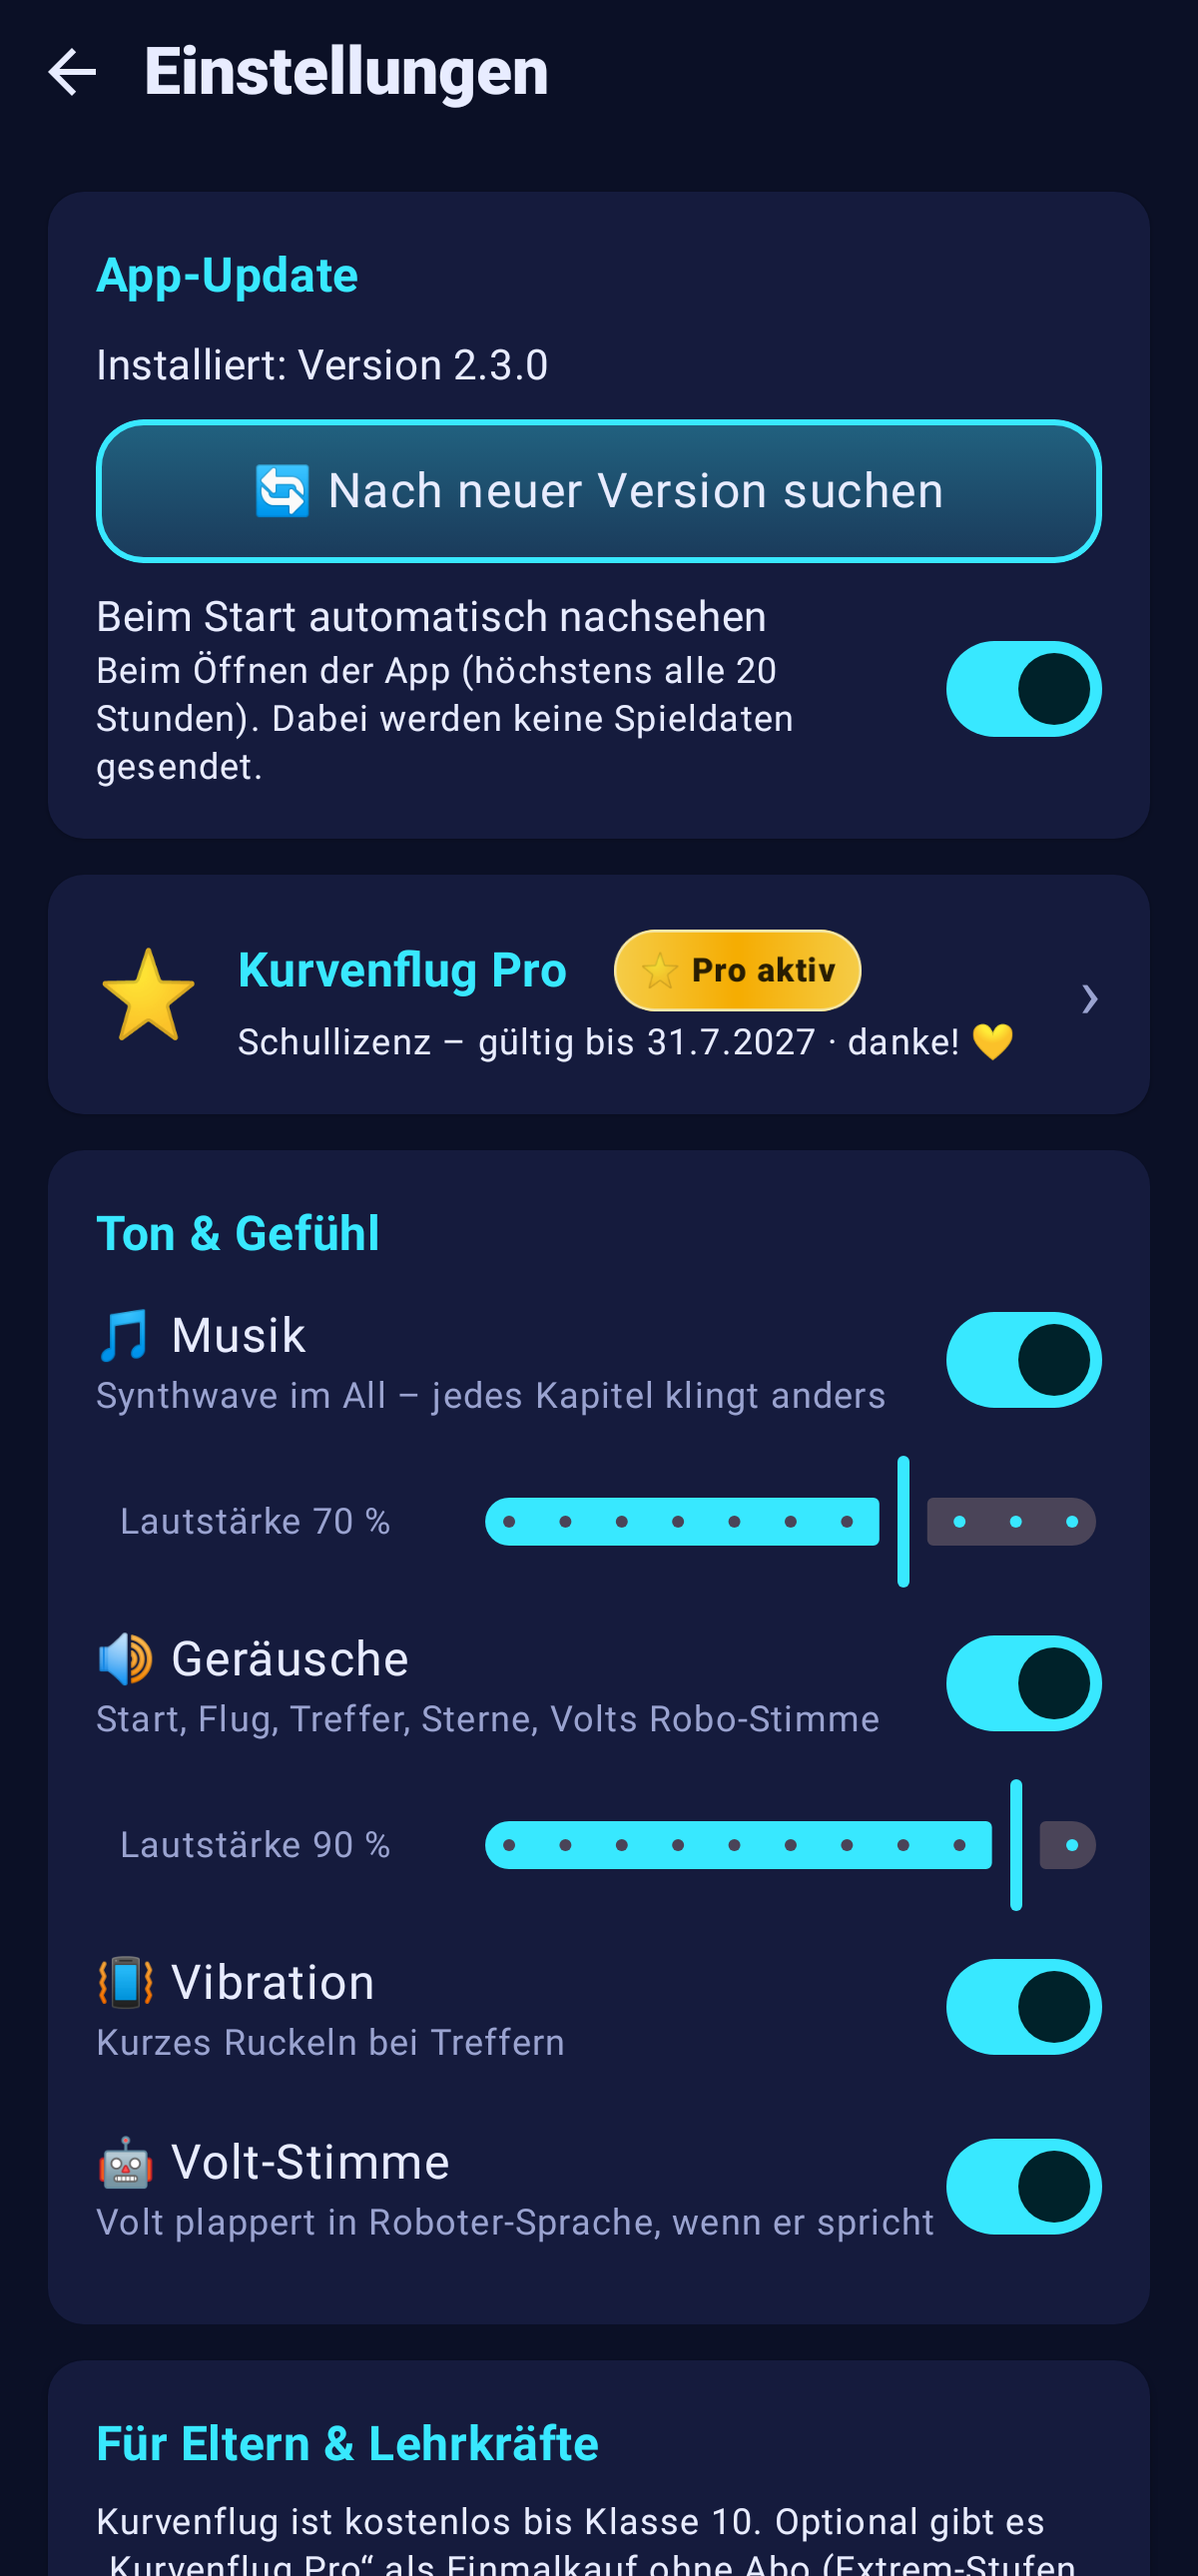
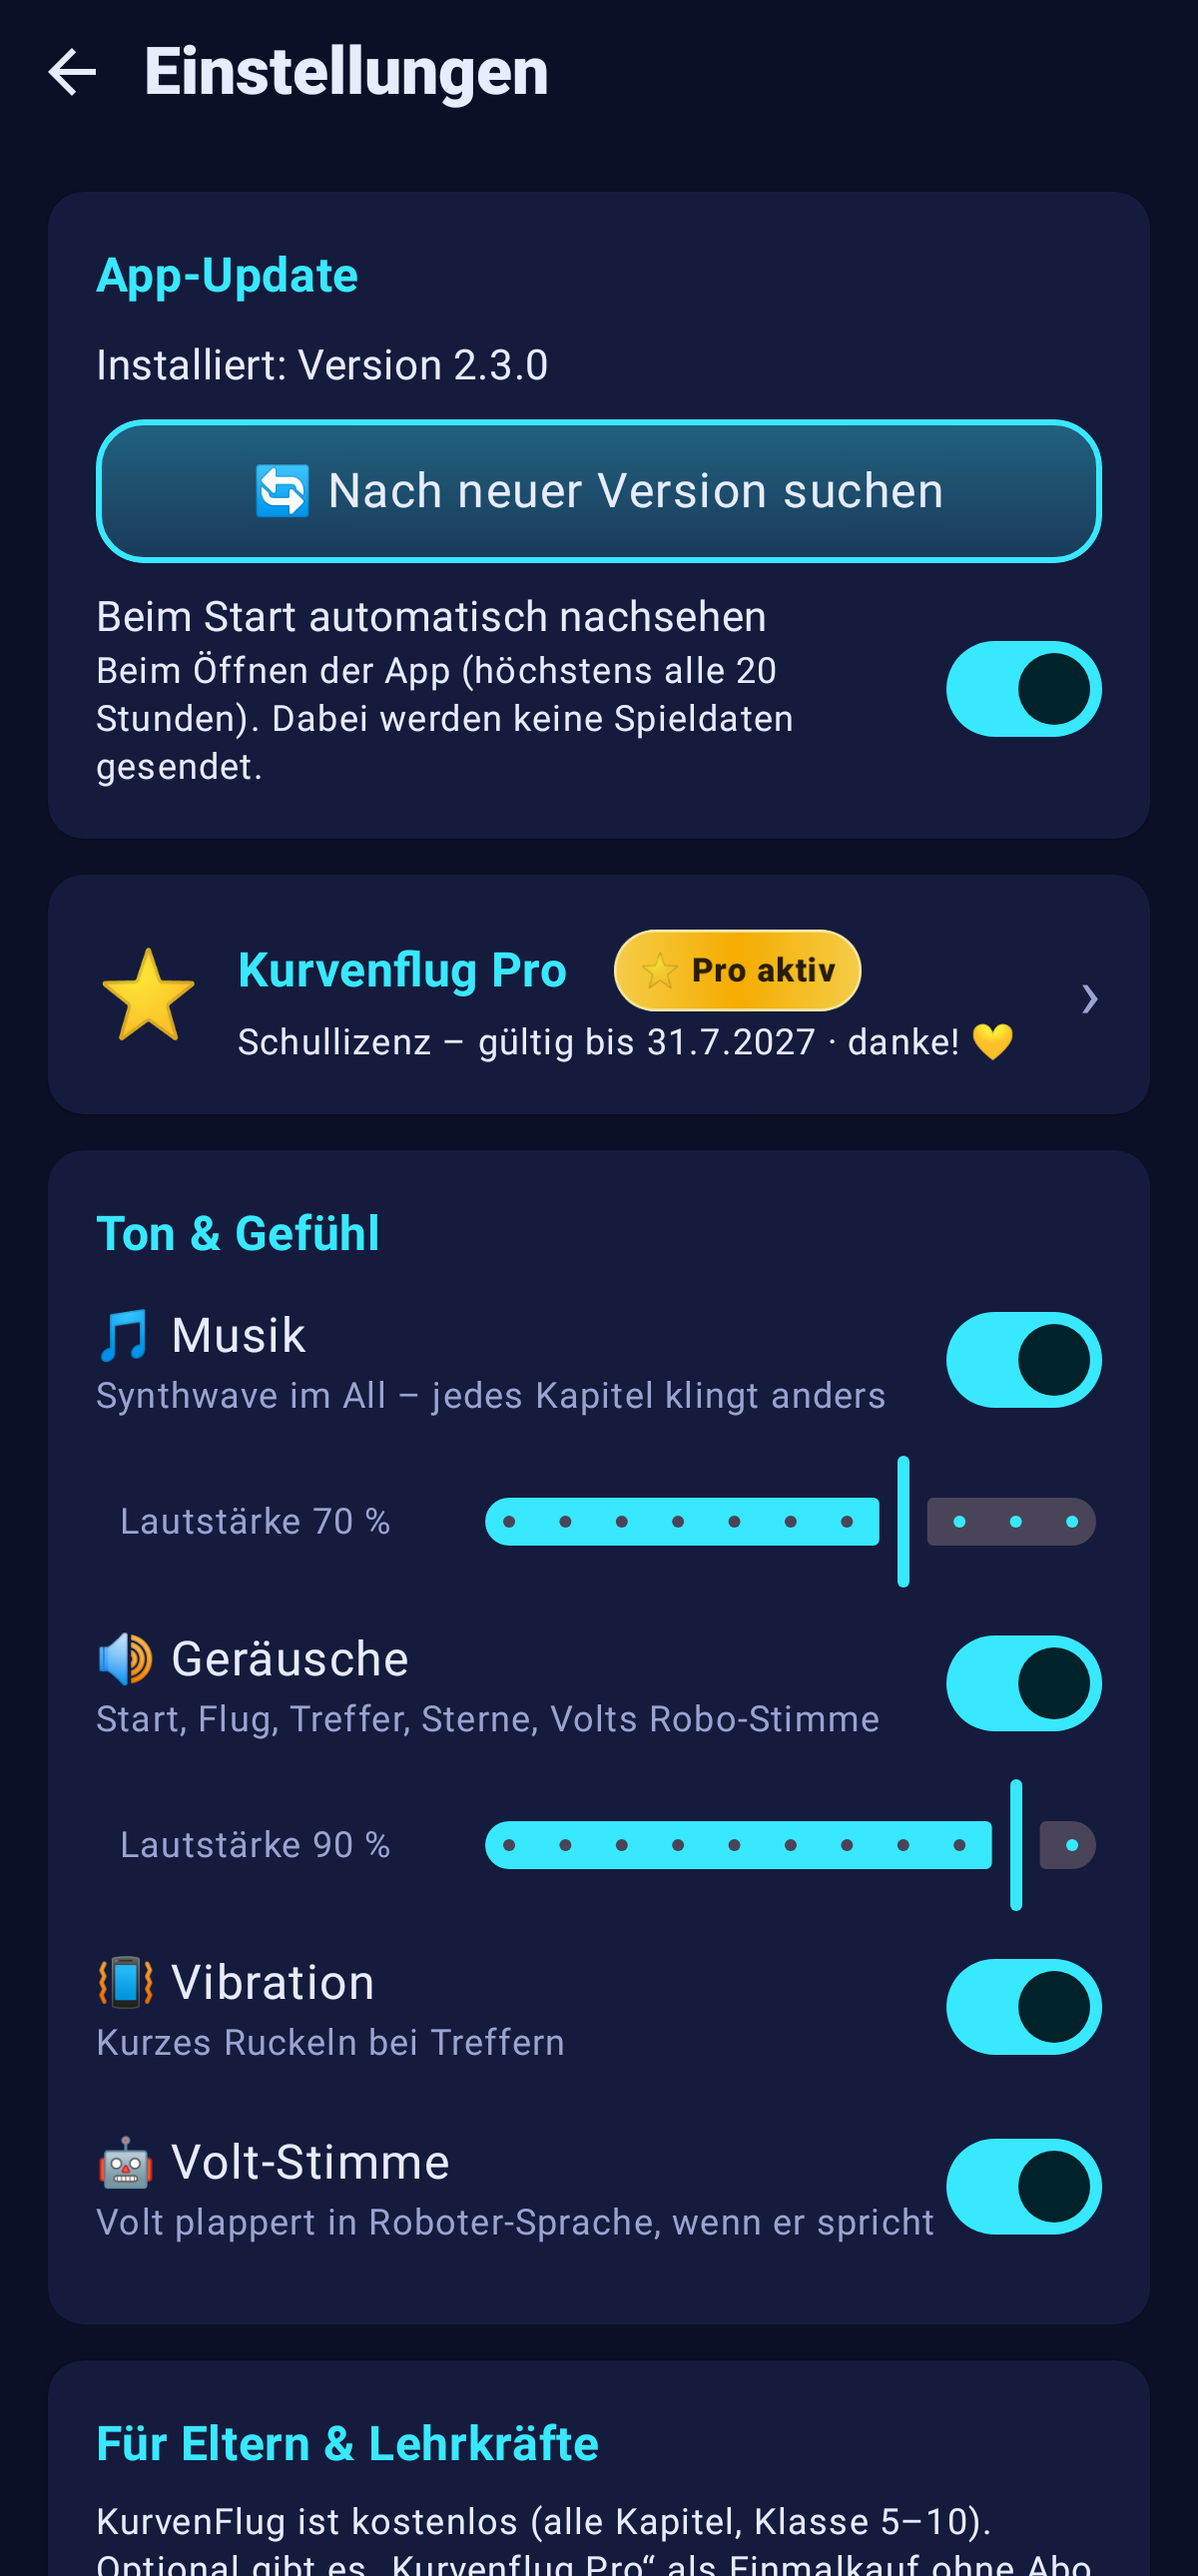
KurvenFlug: Pro-Schloss ohne Kaufaufforderung an Kinder (UWG Anh. Nr. 28)
Gesperrtes Level zeigt nur den sachlichen Hinweis (kein Preis, kein Kaufknopf), Weg nur über das Eltern-Tor;
Pro-Seite aus den Einstellungen nur nach Eltern-Frage; Texte bei Spielern/Kapitel angepasst; Test gegen Kaufaufforderungen.

Claude-Session: https://claude.ai/code/session_015vg1TniCB6sLGd2dNSJdge

Changed region(s): [[0.0617, 0.9612, 0.925, 1.0]]

diff --git a/kurvenflug/shared/src/commonMain/kotlin/de/kurvenflug/app/Root.kt b/kurvenflug/shared/src/commonMain/kotlin/de/kurvenflug/app/Root.kt
@@ -226,6 +226,9 @@ private fun Nav(vm: AppState, platform: Platform, incomingDuel: MutableState<Str
     // Elternbereich nur hinter dem Eltern-Tor (dort stehen Angebote für Eltern – nie für Kinder sichtbar)
     var parentGate by remember { mutableStateOf(false) }
     if (parentGate) de.kurvenflug.app.ui.pro.ParentGate(onDismiss = { parentGate = false }, why = "Der Elternbereich ist für Erwachsene.") { parentGate = false; platform.count("elternbereich"); nav.goOnce(Routes.PARENT) }
+    // Pro-Seite (mit Preis) nur hinter dem Eltern-Tor – nie direkt aus einer Kinderansicht
+    var proGate by remember { mutableStateOf(false) }
+    if (proGate) de.kurvenflug.app.ui.pro.ParentGate(onDismiss = { proGate = false }, why = "Die Pro-Seite ist für Erwachsene.") { proGate = false; nav.goOnce(Routes.PRO) }
     // Monatssummen dauerhaft fortschreiben (Eltern-Bericht „verlauf“; die einzelnen Durchgänge hält die App nur 60 Tage)
     val allPlays by remember { vm.weekPlays(0L) }.collectAsStateWithLifecycle(emptyList())
     var months by remember { mutableStateOf(de.kurvenflug.core.model.MonthSums.parse(vm.settings.monthSums)) }
@@ -352,7 +355,7 @@ private fun Nav(vm: AppState, platform: Platform, incomingDuel: MutableState<Str
             // Pro-Inhalt ohne Pro (nur wenn ein Kaufweg angeboten wird): stattdessen die Pro-Seite
             val ps = LocalPro.current
             if (!de.kurvenflug.core.model.Pro.open(id, ps.pro, ps.locking, allStars)) {
-                de.kurvenflug.app.ui.pro.ProScreen(ps, platform.proShop, onCode = vm.settings::setProCode, onBack = { nav.popSafe() }, locked = true)
+                de.kurvenflug.app.ui.pro.ProLockedNotice(onBack = { nav.popSafe() }, onParents = { parentGate = true })
                 return@composable
             }
             val chapter = (if (de.kurvenflug.core.model.Andromeda.isAndromeda(id)) de.kurvenflug.core.model.Andromeda.chapter(id.removePrefix(de.kurvenflug.core.model.Andromeda.PREFIX).substringBefore('-').toInt()) else null)
@@ -556,7 +559,7 @@ private fun Nav(vm: AppState, platform: Platform, incomingDuel: MutableState<Str
                 update = upd?.let { UpdateState.Available(it) } ?: UpdateState.Idle,
                 onBack = { nav.popSafe() },
                 onReset = vm::resetAll,
-                onPro = if (platform.proShop != null) ({ nav.goOnce(Routes.PRO) }) else null,
+                onPro = if (platform.proShop != null) ({ proGate = true }) else null,
                 voltVoice = vm.settings.voltVoice.collectAsStateWithLifecycle().value, onVoltVoice = vm.settings::setVoltVoice,
                 readAloud = vm.settings.readAloud.collectAsStateWithLifecycle().value, onReadAloud = vm.settings::setReadAloud,
                 readSpeed = vm.settings.readSpeed.collectAsStateWithLifecycle().value, onReadSpeed = vm.settings::setReadSpeed,

diff --git a/kurvenflug/shared/src/commonMain/kotlin/de/kurvenflug/app/ui/pro/ProScreen.kt b/kurvenflug/shared/src/commonMain/kotlin/de/kurvenflug/app/ui/pro/ProScreen.kt
@@ -67,7 +67,7 @@ fun ProScreen(state: ProState, shop: ProShop?, onCode: (String) -> Unit, onBack:
             }
             val speech = when {
                 state.pro -> "Pro ist freigeschaltet! Jetzt geht's bis ganz nach oben! 🚀"
-                locked -> "Das gehört zu Kurvenflug Pro. Frag deine Eltern!"
+                locked -> PRO_LOCKED_TEXT
                 else -> "Mit Pro gibt's Profi-Stufen, Andromeda und noch mehr!"
             }
             Row(verticalAlignment = Alignment.CenterVertically) {
@@ -141,6 +141,27 @@ fun ProScreen(state: ProState, shop: ProShop?, onCode: (String) -> Unit, onBack:
         }
     }
     if (gate) ParentGate(onDismiss = { gate = false }) { gate = false; counter.countAt("pro_kasse", if (locked) "gesperrt" else "einstellungen"); shop?.buy() }
+}
+
+/**
+ * Kinder-Hinweis an jedem Pro-Schloss (UWG Anhang Nr. 28, Korrektur AppZentrale 19.11.): sachlich, kein Preis, kein Kaufknopf,
+ * keine Aufforderung an das Kind. Der einzige Weg führt zum Eltern-Tor, nie direkt zur Kasse.
+ */
+const val PRO_LOCKED_TEXT = "Das gehört zu KurvenFlug Pro. Deine Eltern können im Elternbereich nachsehen."
+
+@Composable
+fun ProLockedNotice(onBack: () -> Unit, onParents: () -> Unit) {
+    Column(Modifier.fillMaxSize().padding(24.dp), verticalArrangement = Arrangement.spacedBy(16.dp, Alignment.CenterVertically),
+        horizontalAlignment = Alignment.CenterHorizontally) {
+        Text("⭐", fontSize = 56.sp)
+        Row(verticalAlignment = Alignment.CenterVertically, modifier = Modifier.widthIn(max = 520.dp)) {
+            Volt(VoltMood.HAPPY, size = 64.dp)
+            Spacer(Modifier.width(8.dp))
+            Text(PRO_LOCKED_TEXT, color = Q.Text, modifier = Modifier.clip(RoundedCornerShape(16.dp)).background(Q.Panel).padding(12.dp))
+        }
+        NeonButton(onClick = onBack, color = Q.Cyan, modifier = Modifier.widthIn(min = 220.dp)) { Text("← Zurück", fontWeight = FontWeight.Bold) }
+        TextButton(onClick = onParents) { Text("👪 Elternbereich (für Erwachsene)", color = Q.Muted) }
+    }
 }
 
 /** Frage für Erwachsene vor jedem Kauf: Geburtsjahr eingeben, mindestens 18 Jahre. */

diff --git a/kurvenflug/core/model/src/jvmTest/kotlin/de/kurvenflug/core/model/KidsNoPurchaseAppealTest.kt b/kurvenflug/core/model/src/jvmTest/kotlin/de/kurvenflug/core/model/KidsNoPurchaseAppealTest.kt
@@ -1,0 +1,27 @@
+package de.kurvenflug.core.model
+
+import java.io.File
+import kotlin.test.Test
+import kotlin.test.assertTrue
+
+/**
+ * Keine Kaufaufforderung an Kinder (UWG Anhang Nr. 28, Korrektur AppZentrale 19.11.):
+ * In der Oberfläche darf nirgends „Frag deine Eltern“, „Kauf dir …“ o. Ä. stehen; Pro-Schlösser zeigen nur den sachlichen Hinweis.
+ */
+class KidsNoPurchaseAppealTest {
+    private val sources = File("../../shared/src/commonMain/kotlin").walkTopDown().filter { it.extension == "kt" }.toList()
+
+    @Test fun noPurchaseAppealToChildren() {
+        val bad = Regex("(?i)frag\\s+deine\\s+eltern|kauf\\s+dir|jetzt\\s+kaufen|bitte\\s+deine\\s+eltern|sag\\s+deinen\\s+eltern")
+        val hits = sources.flatMap { f -> f.readLines().mapIndexedNotNull { i, l -> if (bad.containsMatchIn(l)) "${f.name}:${i + 1}" else null } }
+        assertTrue(hits.isEmpty(), "Kaufaufforderung an Kinder: $hits")
+    }
+
+    @Test fun lockedLevelShowsNoticeNotShop() {
+        val root = sources.first { it.name == "Root.kt" }.readText()
+        assertTrue("ProLockedNotice(" in root)
+        assertTrue("locked = true" !in root, "gesperrtes Level darf nicht die Pro-Seite mit Preis zeigen")
+        val pro = sources.first { it.name == "ProScreen.kt" }.readText()
+        assertTrue("\"Das gehört zu KurvenFlug Pro. Deine Eltern können im Elternbereich nachsehen.\"" in pro)
+    }
+}

diff --git a/kurvenflug/shared/src/commonMain/kotlin/de/kurvenflug/app/ui/settings/SettingsScreen.kt b/kurvenflug/shared/src/commonMain/kotlin/de/kurvenflug/app/ui/settings/SettingsScreen.kt
@@ -74,7 +74,7 @@ fun SettingsScreen(
                 Column(Modifier.padding(16.dp), verticalArrangement = Arrangement.spacedBy(6.dp)) {
                     Text("Für Eltern & Lehrkräfte", style = MaterialTheme.typography.titleMedium, color = MaterialTheme.colorScheme.primary)
                     val shop = de.kurvenflug.app.LocalPro.current.locking
-                    if (shop) Text("Kurvenflug ist kostenlos bis Klasse 10. Optional gibt es „Kurvenflug Pro“ als Einmalkauf ohne Abo " +
+                    if (shop) Text("KurvenFlug ist kostenlos (alle Kapitel, Klasse 5–10). Optional gibt es „Kurvenflug Pro“ als Einmalkauf ohne Abo " +
                         "(Extrem-Stufen, Andromeda, mehr Spieler). Kaufen kann man nur nach einer Frage für Erwachsene.", style = MaterialTheme.typography.bodySmall)
                     val nova = readAloudAvailable
                     Text(if (platform.isWeb) "Kurvenflug speichert den Spielstand nur hier in diesem Browser. Keine Anmeldung, keine Werbung, " +

diff --git a/kurvenflug/shared/src/commonMain/kotlin/de/kurvenflug/app/ui/together/Together.kt b/kurvenflug/shared/src/commonMain/kotlin/de/kurvenflug/app/ui/together/Together.kt
@@ -83,7 +83,7 @@ fun ProfileScreen(
                 val ps = de.kurvenflug.app.LocalPro.current
                 val maxP = minOf(Settings.MAX_PROFILES, de.kurvenflug.core.model.Pro.maxProfiles(ps.pro, ps.locking))
                 if (profiles.size >= maxP && maxP < Settings.MAX_PROFILES)
-                    Text("⭐ Mehr als ${de.kurvenflug.core.model.Pro.FREE_PROFILES} Spieler gibt es mit Kurvenflug Pro (Einstellungen).", color = Q.Yellow)
+                    Text("⭐ Mehr als ${de.kurvenflug.core.model.Pro.FREE_PROFILES} Spieler gehören zu KurvenFlug Pro. Deine Eltern können im Elternbereich nachsehen.", color = Q.Yellow)
                 if (profiles.size < maxP) NeonButton(onClick = { editing = -1; name = ""; avatar = Settings.AVATARS[profiles.size % Settings.AVATARS.size] },
                     color = Q.Green, modifier = Modifier.fillMaxWidth()) { Text("➕ Neuer Spieler", fontWeight = FontWeight.Bold) }
                 editing?.let { id ->

diff --git a/kurvenflug/app/src/test/java/de/kurvenflug/app/ui/ScreenshotTest.kt b/kurvenflug/app/src/test/java/de/kurvenflug/app/ui/ScreenshotTest.kt
@@ -431,6 +431,8 @@ class ScreenshotTest {
     @Test fun nextSteps() = shot("95_wie_gehts_weiter", 1500) {
         androidx.compose.foundation.layout.Column(androidx.compose.ui.Modifier.padding(12.dp)) { de.kurvenflug.app.ui.home.NextStepsCard() }
     }
+    /** Pro-Schloss in der Kinderansicht: sachlich, kein Preis, Weg nur über das Eltern-Tor (UWG Anh. Nr. 28) */
+    @Test fun proLockedNotice() = shot("98_pro_schloss_kinder") { de.kurvenflug.app.ui.pro.ProLockedNotice({}, {}) }
     @Test fun proUnlocked() = shot("96_pro_freigeschaltet", 2000) {
         de.kurvenflug.app.ui.pro.ProScreen(de.kurvenflug.app.ProState(pro = true, locking = true, viaPlay = true), FakeShop(true, acceptsCodes = false), {}, {})
     }

diff --git a/kurvenflug/shared/src/commonMain/kotlin/de/kurvenflug/app/ui/flight/ChapterCard.kt b/kurvenflug/shared/src/commonMain/kotlin/de/kurvenflug/app/ui/flight/ChapterCard.kt
@@ -51,7 +51,7 @@ fun ChapterCard(c: Chapter, index: Int, stars: Map<String, Int>, onLevel: (Level
         }
         val ps = de.kurvenflug.app.LocalPro.current
         if (de.kurvenflug.core.model.Pro.chapterLocked(c.number, ps.pro, ps.locking, stars))
-            Text("⭐ Teil von Kurvenflug Pro – antippen für mehr", color = Q.Yellow, style = MaterialTheme.typography.labelMedium)
+            Text("⭐ Teil von KurvenFlug Pro", color = Q.Yellow, style = MaterialTheme.typography.labelMedium)
         c.levels.chunked(4).forEach { row ->
             Row(horizontalArrangement = Arrangement.spacedBy(8.dp)) {
                 row.forEach { l ->
